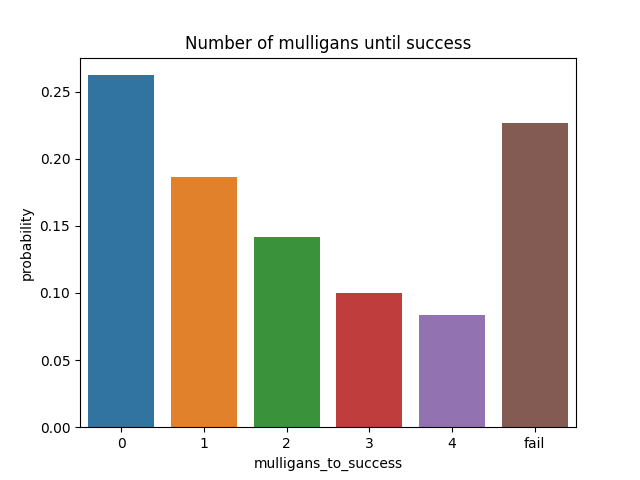
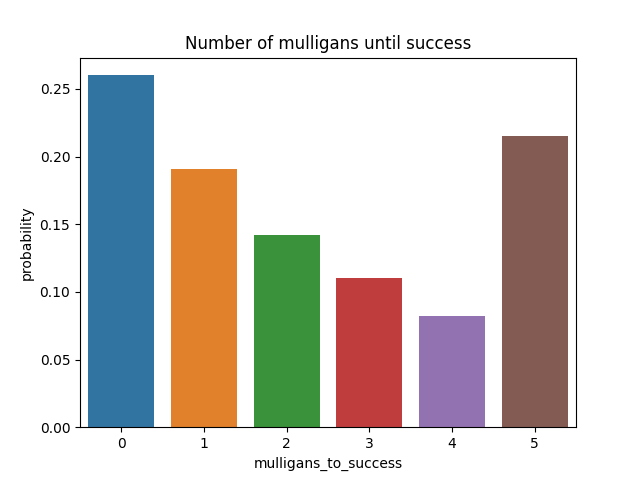
mean histograms

diff --git a/structs/statistics.py b/structs/statistics.py
@@ -2,16 +2,23 @@ import numpy as np
 import seaborn as sns
 from collections import Counter
 import pandas as pd
+import matplotlib.pyplot as plt
 
 class Statistics:
     def __init__(self, ):
         self.mulligan_count = []
+        self.mulligan_results = []
         self.mulligan_keeps_dumps = []
         self.turn_logs = []
+        self.game_df = None
+
+    def __get_game_df(self):
+        self.game_df = pd.DataFrame.from_records(data=self.turn_logs)
+        self.game_df["counters_in_hand"] = self.game_df["hand"].apply(lambda x: x["counter"])
+        self.game_df = self.game_df.drop(columns="hand").groupby(by=["turn_count"], as_index=False).mean()
 
     def __mulligan_success_hist(self):
-        data = ['fail' if x is np.nan else x for x in self.mulligan_count]
-        data = Counter(data)
+        data = Counter(self.mulligan_count)
         data = pd.DataFrame(data=data.values(), index=data.keys(), columns=["probability"])
         data = data.reset_index()
         data = data.rename(columns={"index": "mulligans_to_success"})
@@ -23,11 +30,25 @@ class Statistics:
         fig.set(title="Number of mulligans until success")
         fig.get_figure().savefig("viz/mulligan_success_dist.png")
 
+    def __per_turn_means_histograms(self):
+        for col in self.game_df.drop(columns="turn_count").columns:
+            self.__save_histogram_to_file(df=self.game_df, x="turn_count", y=col,
+                                          title=f"Mean {col} per turn", file_name=f"viz/{col}_hist.png")
+
+    def __save_histogram_to_file(self, df, x, y, title, file_name):
+        fig = sns.barplot(data=df, x=x, y=y)
+        fig.set(title=title)
+        fig.get_figure().savefig(file_name)
+        plt.clf()
+
     def finalize(self):
+        self.__get_game_df()
         self.__mulligan_success_hist()
+        self.__per_turn_means_histograms()
+
 
     def __str__(self):
         report = "REPORT"
-        report += f"\nChance of mulligan success: {round(100*np.sum(~np.isnan(self.mulligan_count))/len(self.mulligan_count),2)}%"
-        report += f"\nMulligans until success (mean): {round(np.nanmean(self.mulligan_count),2)}"
+        report += f"\nChance of mulligan success: {round(100*np.sum([i=='Success' for i in self.mulligan_results])/len(self.mulligan_count),2)}% "
+        report += f"\nMulligans until success (mean): {round(np.mean(self.mulligan_count),2)}"
         return report

diff --git a/structs/game.py b/structs/game.py
@@ -1,4 +1,4 @@
-import numpy as np
+from collections import Counter
 
 class Game:
     def __init__(self, deck, strat, stats, turn_limit):
@@ -18,7 +18,6 @@ class Game:
 
     def run(self):
         self.command_zone.append(self.deck.commander)
-        self.deck.commander = []
 
         self.deck.shuffle()
         self.__mulligan()
@@ -32,10 +31,7 @@ class Game:
             hand = self.deck.look_top(number=7)
 
             result = self.strat.mulligan_strat(hand=hand, mull_counter=mulligan_count)
-            if result == "Success":
-                break
-            elif result == "Fail":
-                mulligan_count = np.nan
+            if result:
                 break
 
             self.deck.shuffle()
@@ -43,13 +39,15 @@ class Game:
 
         # record stats
         self.stats.mulligan_count.append(mulligan_count)
+        self.stats.mulligan_results.append(result)
 
         # draw 7 cards
         self.hand = self.deck.draw_top(7)
 
         # mulligan extra cards away
         to_mulligan = []
-        if result != "Fail" and mulligan_count > 1:
+
+        if result == "Fail" or mulligan_count > 1:
             self.hand, to_mulligan = self.strat.get_opening_hand(cards=self.hand, num_to_keep=min(8-mulligan_count, 7))
 
             # bottom unwanted cards
@@ -73,5 +71,5 @@ class Game:
         self.stats.turn_logs.append({"turn_count": self.turn_count,
                                      "max_mana": self.max_mana,
                                      "current_mana": self.current_mana,
-                                     "hand": self.hand,
-                                     "commmand_zone": self.command_zone})
+                                     "hand": Counter([str(i) for i in self.hand]),
+                                     "commander_already_played": len(self.command_zone) == 0})

diff --git a/builders/deck_builders.py b/builders/deck_builders.py
@@ -45,8 +45,10 @@ def build_zur():
     for i in range(36):
         decklist.append(Card(role_tag="land"))
 
-    for i in range(12):
+    for i in range(11):
         decklist.append(Card(role_tag="ramp", cmc=2))
+
+    decklist.append(Card(role_tag="ramp", cmc=1)) #sol ring
 
     for i in range(21):
         decklist.append(Card(role_tag="tutorable_enchantment"))

diff --git a/strategies/strategy.py b/strategies/strategy.py
@@ -44,6 +44,8 @@ class Strategy:
         if mull_counter < 5:
             if stats["land"] >= 3 and stats["ramp"] >= 1:
                 return "Success"
+            else:
+                return None
         else:
             return "Fail"
 

diff --git a/structs/card_structs.py b/structs/card_structs.py
@@ -7,7 +7,7 @@ class Card:
         self.cmc = cmc
 
     def __str__(self):
-        return f"Role tag: {self.role_tag}"
+        return f"{self.role_tag}"
 
 
 class Deck:
